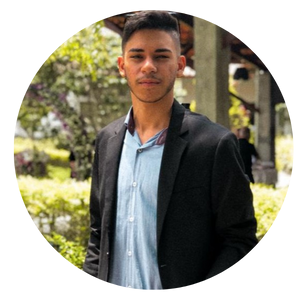
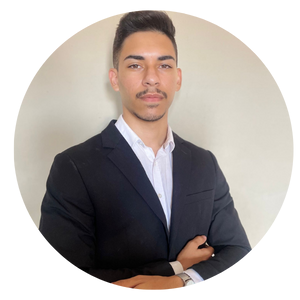
atualização

diff --git a/index.html b/index.html
@@ -6,8 +6,10 @@
     <!--Google fontes-->
     <link rel="preconnect" href="https://fonts.googleapis.com">
     <link rel="preconnect" href="https://fonts.gstatic.com" crossorigin>
-    <link href="https://fonts.googleapis.com/css2?family=Poppins:ital,wght@0,100;0,200;0,300;0,400;0,500;0,600;0,700;0,800;0,900;1,100;1,200;1,300;1,400;1,500;1,600;1,700;1,800;1,900&display=swap" rel="stylesheet">
-    <link rel="stylesheet" href="style.css">
+    <link href="https://fonts.googleapis.com/css2?family=Poppins:ital,wght@0,100;0,200;0,300;0,400;0,500;0,600;0,700;0,800;0,900;1,100;1,200;1,300;1,400;1,500;1,600;1,700;1,800;1,900&display=swap"
+    rel="stylesheet"> <!--GoogleFontes-->
+    <link rel="stylesheet" href="https://cdn.jsdelivr.net/npm/bootstrap-icons@1.11.3/font/bootstrap-icons.min.css">
+    <link rel="stylesheet" href="style.css"><!--bootstrap-->
     <title>Curriculo Leonardo</title>
 </head>
 <body>
@@ -30,12 +32,13 @@
             </nav>
 
             <div class="btn-contato">
-                <a href="#">
+                <a href="https://api.whatsapp.com/send?phone=5583996666285&text=Ol%C3%A1!%20Vim%20pelo%20o%20portfolio" target="_blank">
                     <button>Contato</button>
-                </a>    
+                </a>
             </div><!--btn-contato-->
+            
         </div><!--interface-->
-    </header>
+    </header>   
 
     <main>
 
@@ -45,24 +48,103 @@
                     <div class="txt-topo-site">
                         <h1>
                             Leonardo Feitosa Barroso<span>.</span>
+                        </h1>
                             <p></p>
                             <div class="btn-contato">
-                                <a href="#">
+                                <a href="https://api.whatsapp.com/send?phone=5583996666285&text=Ol%C3%A1!%20Vim%20pelo%20o%20portfolio">
                                     <button>Entre em contato</button>
                                 </a>
-                            </div>
-                        </h1>
-
-                    </div><!--topo-site-->
+                            </div><!--btn-contato-->
+           
+                    </div><!--txt--topo-site-->
 
                     <div class="img-topo-site">
                         <img src="images/eu.png" alt="Imagem">
                     </div><!--img-topo-do-site-->
-
                 </div><!--flex-->
             </div><!--interface-->
 
-        </section><!--topo-do-site-->
+                    </section><!--txt--topo-do-site-->
+                    <section class="especialidades">
+                        <div class="interface">
+                            <h2 class="titulo">Minhas <span>Especialidades.</span></h2>
+                            <div class="flex">
+                                <div class="especialidades-box">
+                                    <i class="bi bi-lightbulb"></i>
+                                    
+                                    <h3>Habilidades</h3>
+                                    
+                                        <li>Boa interação com clientes e colegas de equipe</li>
+                                        <li>Python</li>
+                                        <li>Comunicação efetiva.</li>
+                                        <li>Organização.</li>
+                                        <li>Visão de negócio.</li>
+                                        <li>JavaScript</li>
+                                        <li>HTML</li>
+                                   
+                                </div> <!-- especialidades-box -->
+                            <div class="flex">
+                                <div class="especialidades-box">
+                                    <i class="bi bi-pc-display-horizontal"></i>
+                                    <h3>Qualificação</h3>
+                                    <li>• Curso: Curso de Microsoft Word 2010, CIEE- João pessoa, Carga Horária: 15 horas – 2020.
+                                        (Concluído)</li>
+                                        <li>• Curso: Curso de Microsoft Excel 2010, CIEE- João pessoa, Carga Horária: 15 horas – 2020.
+                                        (Concluído).</li>
+                                        <li>• Curso: Logística - CIEE João Pessoa - 2021.</li>
+                                        <li>• Curso de Python 3 do Básico Ao Avançado - Carga horária 141H (em andamento)</li>
+                                        <li>• Curso de JavaScript e TypeScript do básico ao avançado (HTML E CSS) - Carga horária 141H (em
+                                        andamento)</li>
+                                        
+                                </div> <!-- especialidades-box -->
+                            <div class="flex">
+                                <div class="especialidades-box">
+                                    <i class="bi bi-bar-chart-line"></i>
+                                    <h3>Experiências</h3>
+                                    <li>• Auxiliar de logística na empresa ABC DISTRIBUIDORA</li>
+                                    <li>• Vendedor autônomo</li>
+                                    <li>• PB FOODS DISTRIBUIDORA - AUXLIAR ADMINISTRATIVO</li>
+                                </div> <!-- especialidades-box -->
+
+                            </div><!--flex-->
+                        </div><!--interface-->
+                    </section><!--Especialidades-->
+                    <section class="sobre">
+
+                        <div class="interface">
+                            <div class="flex">
+                                <div class="img-sobre">
+                                    <img src="images/eu2.png" alt="img-2">
+
+
+                                </div><!--img-sobre-->
+
+                                <div class="txt-sobre">
+                                    <h2>
+                                        MUITO PRAZER,<span>
+                                            SOU LEONARDO FEITOSA.</h2>
+                                        </span>
+
+                                        <p>
+                                            Leonardo Feitosa Barroso, Entusiasta por tecnologia e estudante dedicado em Python, JavaScript e HTML.
+                                            Gosto de estar sempre por dentro de projetos para me aperfeiçoar; minha
+                                            busca constante por conhecimento me impulsiona.</p>
+
+                                        <p>
+                                            Busco Atuar de forma crescente e produtiva, agregando assim conhecimentos para
+                                            minha vida profissional</p>
+                                            <div class="btn-social">
+                                                <a href="https://www.linkedin.com/in/leonardofeitos4/" target="_blank"><button><i class="bi bi-linkedin"></i></button></a>
+                                                <a href="https://github.com/leonardofeitos4" target="_blank"><button><i class="bi bi-github"></i></button></a>
+                                                <!-- <a href="URL_DO_SEU_LINK_NO_INSTAGRAM" target="_blank"><button><i class="bi bi-instagram"></i></button></a> -->
+                                            </div>
+                                            
+                                                                               
+                                </div><!--txt-sobre-->
+                            </div><!--Flex-->
+                        </div><!--interface-->
+                        
+                    </section><!--Sobre-->
 
     </main>
 

diff --git a/style.css b/style.css
@@ -30,7 +30,18 @@ body{
     cursor: pointer;
     transition: 2s;
 }
-.btn-contato button:hover{
+
+h2.titulo{
+    columns: black;
+    font-size: 50px;
+    text-align: center;
+    margin: 85px;
+}
+
+h2.titulo span{
+    color:rgb(133, 255, 96);
+}
+button:hover{
     box-shadow: 0px 0px 8px #000000;
     transform: scale(1.10);
 }
@@ -107,4 +118,80 @@ section.Topo-do-site .flex{
     100%{
         top: 30px;
     } 
+}
+/* Estilo das especialidades */
+section.especialidades{
+    padding: 40px 1%;
+}
+section.especialidades .flex{
+    gap: 300px;
+}
+
+.especialidades-box {
+    color: #000;
+    padding: 20px;
+    border-radius: 35px;
+    border: 2px solid;
+    margin-top: 20px;
+    transition: .4s;
+}
+
+.especialidades-box p {
+    list-style-type: none; /* Remover marcadores padrão */
+}
+
+.especialidades-box li {
+    margin-bottom: 15px; /* Adicionar espaço entre os itens da lista */
+}
+.especialidades .especialidades-box:hover{
+    transform: scale(1.2);
+    box-shadow: 0 0 30px #00000075;
+}
+
+.especialidades .especialidades-box i{
+    font-size: 30px;
+    color: rgb(133, 255, 96);
+}
+.especialidades .especialidades-box h3{
+    font-size: 30px;
+    margin: 30px 0;
+}
+/* Estilo do sobre */
+section.sobre {
+    padding: 80px 4%;
+}
+
+section.sobre .flex {
+    align-items: center;
+    gap: 60px;
+}
+
+.sobre .txt-sobre {
+    color: #000;
+    margin: -100px;
+}
+.sobre .txt-sobre h2{
+    font-size: 30px;
+    line-height: 40px;
+    margin-bottom: 15px;
+}
+.sobre .txt-sobre h2 span{
+    color: rgb(133, 255, 96);
+    display: block;
+    
+}
+.sobre .txt-sobre p{
+    margin: 15px 0;
+    text-align: justify;
+}
+.sobre .txt-sobre .btn-social button{
+    width: 60px;
+    height: 60px;
+    border-radius: 50%;
+    border: none;
+    background-color:rgb(133, 255, 96);
+    font-size: 20px;
+    cursor: pointer;
+    margin: 0 5px;
+    transition: .4s;
 }
